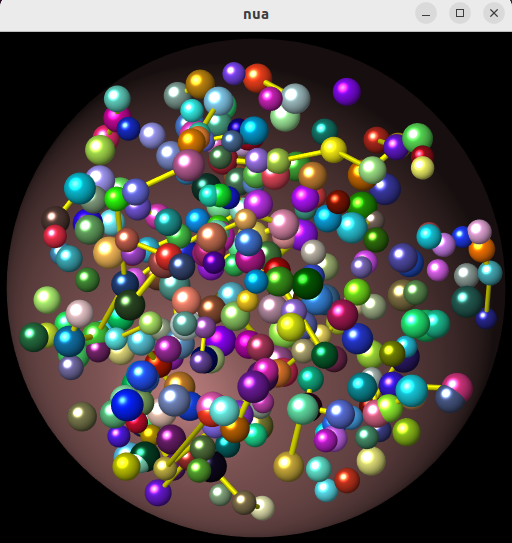
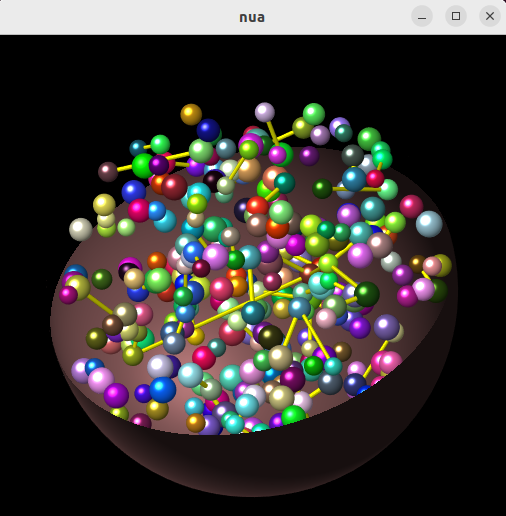
...

diff --git a/src/vertex.c b/src/vertex.c
@@ -419,18 +419,23 @@ void vertex_create_graphics_pipeline(nua_t * p, vertex_t * v)
     //rasterizer.polygonMode = VK_POLYGON_MODE_LINE;
 
     rasterizer.lineWidth = 1.0f;
-    //rasterizer.cullMode = VK_CULL_MODE_NONE;
 
-    rasterizer.cullMode = VK_CULL_MODE_FRONT_BIT;
+
+    if(v->vtype == VERTEX_DOMAIN)
+    {
+        rasterizer.cullMode = VK_CULL_MODE_NONE;;
+    }
+
     if(v->vtype == VERTEX_BALL)
     {
         rasterizer.cullMode = VK_CULL_MODE_BACK_BIT;
-        rasterizer.cullMode = VK_CULL_MODE_NONE;
     }
+
     if(v->vtype == VERTEX_CONNECT)
     {
-        rasterizer.cullMode = VK_CULL_MODE_NONE;
+        rasterizer.cullMode = VK_CULL_MODE_BACK_BIT;
     }
+
     rasterizer.frontFace = VK_FRONT_FACE_CLOCKWISE;
     rasterizer.depthBiasEnable = VK_FALSE;
     rasterizer.depthBiasConstantFactor = 0.0f; // Optional
@@ -906,7 +911,7 @@ void vertex_create_texture_image(nua_t * p, vertex_t * v)
     {
         printf("->create_texture_image\n");
     }
-    char imfile[] = "textures/texture.jpg";
+    char imfile[] = "textures/texture.png";
     int texWidth, texHeight, texChannels;
     stbi_uc* pixels = stbi_load(imfile,
                                 &texWidth, &texHeight, &texChannels,

diff --git a/src/vshape.c b/src/vshape.c
@@ -160,7 +160,7 @@ vshape_t * vshape_tube(float r, float l, int sides)
     {
         float * V = S->vert + 6*ss;
         float theta = (float) ss/(float) sides * 2.0*M_PI;
-        V[0] = r*sin(theta); V[1] = r*cos(theta); V[2] = l;
+        V[0] = r*cos(theta); V[1] = r*sin(theta); V[2] = l;
         V[3] = V[0]; V[4] = V[1]; V[5] = 0;
     }
     return S;
